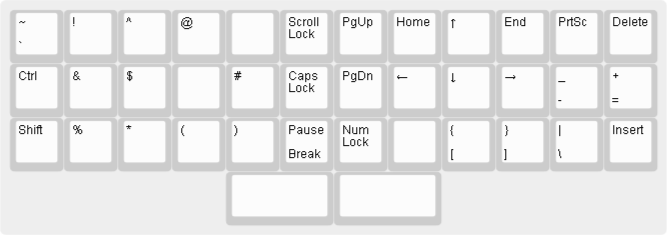
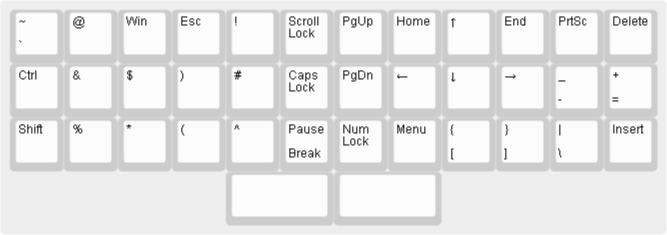
updated raise and lower layers

diff --git a/layers.md b/layers.md
@@ -14,16 +14,14 @@ The [default prism layer definition](prism-default.json):
 
 # Raise
 
-The Raise layer introduces function keys F1 - F12,
-numbers arranged in a numpad style and three other
-of the missing keys: Esc, Win and Menu.
+The Raise layer introduces function keys F1 - F12
+and numbers arranged in a numpad style.
 
 The [raise prism layer definition](prism-raise.json):
 
 ![raise prism layer](prism-raise.png)
 
-(There are still two keys reserved for future use,
-however for the time being serving as the additional Enter keys.)
+(There are still three unused keys.)
 
 # Lower
 
@@ -37,20 +35,37 @@ two keys from number row to the right of the **0** key
 moved to the right of the **L** key.
 
 Other symbols from the number row dwell on letters
-based on their shapes, for example,
-the dollar sign **$** resembles the letter **S**,
-the asterisk * looks almost like an **X**
-and left parenthesis **(** is similar to the letter **C**.
+based on the shapes they resemble.
+
+| Symbol | Key |
+| ------ | --- |
+| ! | T |
+| @ | Q |
+| # | F |
+| $ | S |
+| % | Z |
+| ^ | V |
+| & | A |
+| * | X |
+| ( | C |
+| ) | D |
+
 At least this is what they look to me. I hope you get the idea! ;)
 
-More special keys: **PrtSc** sits on **P** and **Pause/Break** on **B**,
-**NumLock** on **N**, **CapsLock** on **G** and **ScrollLock** on **T**.
+More special keys:
 
+| Command | Key |
+| ------- | ----|
+| PrtSc | P |
+| Pause/Break | B |
+| NumLock | N |
+| Menu | M |
+| CapsLock | G |
+| ScrollLock | T |
+ 
 The [lower prism layer definition](prism-lower.json):
 
 ![lower prism layer](prism-lower.png)
-
-(There are still three unused keys.)
 
 # Complete Prism
 
